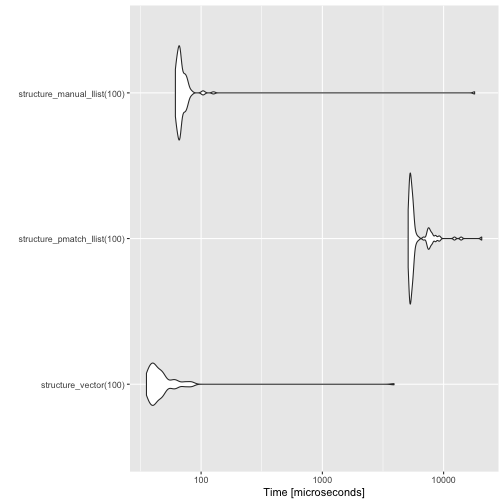
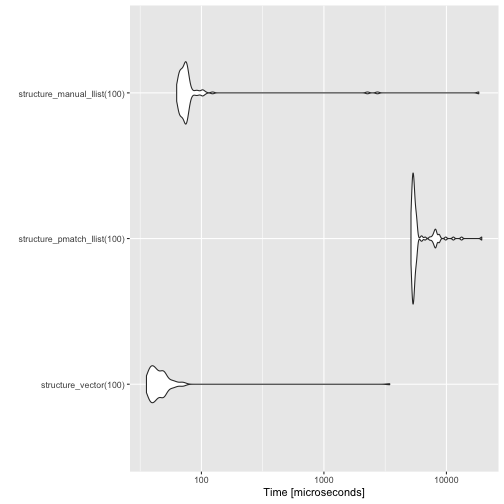
updating blog at Tue Oct 16 18:24:24 CEST 2018

diff --git a/docs/2018/10/16/the-cost-of-constructors/index.html b/docs/2018/10/16/the-cost-of-constructors/index.html
@@ -141,11 +141,11 @@ ga('send', 'pageview');
 
     
 
-<p>So, err, I wanted to compare the performance of linked lists versus R vectors on a case where the former is expected to perform better than the second: building a sequence one element at a time. If you work with vectors, whenever possible you want to allocated them to the size you are going to need. You cannot always do this, and if you find yourself having to add one element at a time by concatenation, you have a quadratic time performance on your hands.</p>
+<p>So, err, I wanted to compare the performance of linked lists versus R vectors on a case where the former is expected to perform better than the second: building a sequence one element at a time. If you work with vectors, whenever possible you want to allocate them to the size you are going to need. You cannot always do this, and if you find yourself having to add one element at a time by concatenation, you have a quadratic time performance on your hands.</p>
 
-<p>In some cases there are ways around this by being clever about allocation and reallocation, and that will give you a linear time algorithm. Using a linked list is simpler. You can add elements to the front of a list in constant time, so building a sequence using linked lists already takes linear time.</p>
+<p>In some cases, there are ways around this by being clever about allocation and reallocation, and that will give you a linear time algorithm. Using a linked list is more straightforward. You can add elements to the front of a list in constant time, so building a sequence using linked lists already takes linear time.</p>
 
-<p>Programming a linked list in R, though, will not give you the performance that vectors have, since operations on those are written in C. The performance gain you get from C implementations over R implementations will make vectors much faster for short sequences, but the better algorithm using linked list should soon outperform vectors.</p>
+<p>Programming a linked list in R, though, will not give you the performance that vectors have since operations on those are written in C. The performance gain you get from C implementations over R implementations will make vectors much faster for short sequences, but the better algorithm using linked list should soon outperform vectors.</p>
 
 <p>I wanted to get a feeling for where the two lines, the vector and the linked list performance, would cross.</p>
 
@@ -189,7 +189,7 @@ structure_manual_llist &lt;- <span style="color:#6ab825;font-weight:bold">functi
         i &lt;- i + <span style="color:#3677a9">1</span>
     }
 }</code></pre></div>
-<p>When I compare their performance, it looks absolutely horrible.</p>
+<p>When I compare their performance, it looks horrible.</p>
 <div class="highlight"><pre style="color:#d0d0d0;background-color:#202020;-moz-tab-size:4;-o-tab-size:4;tab-size:4"><code class="language-r" data-lang="r"><span style="color:#6ab825;font-weight:bold">library</span>(microbenchmark)
 measures &lt;- microbenchmark(
     structure_vector(<span style="color:#3677a9">100</span>),
@@ -198,20 +198,20 @@ measures &lt;- microbenchmark(
 )
 measures</code></pre></div>
 <pre><code>## Unit: microseconds
-##                         expr      min        lq       mean   median
-##        structure_vector(100)   35.425   39.1990   85.39673   42.496
-##  structure_pmatch_llist(100) 5100.786 5279.6000 6156.29756 5452.979
-##  structure_manual_llist(100)   61.368   64.6755  248.87403   66.778
-##         uq      max neval
-##    49.0075  3901.22   100
-##  5761.5150 20631.25   100
-##    72.4025 18024.37   100
+##                         expr      min        lq      mean    median
+##        structure_vector(100)   35.589   39.5215   79.4795   43.3035
+##  structure_pmatch_llist(100) 5138.207 5311.5115 6141.8516 5433.3730
+##  structure_manual_llist(100)   62.804   68.8670  306.2231   73.5315
+##         uq       max neval
+##    49.3005  3446.187   100
+##  5708.5820 19428.017   100
+##    77.6330 18371.577   100
 </code></pre>
 <div class="highlight"><pre style="color:#d0d0d0;background-color:#202020;-moz-tab-size:4;-o-tab-size:4;tab-size:4"><code class="language-r" data-lang="r"><span style="color:#6ab825;font-weight:bold">library</span>(ggplot2)
 autoplot(measures)</code></pre></div>
 <p><img src="figure/unnamed-chunk-3-1.png" alt="plot of chunk unnamed-chunk-3" /></p>
 
-<p>The <code>pmatch</code> implementation is orders of maginitude slower than the other two. The other linked list implementation is also slower than the vector implementation here, but that is because sequences of length 100 are too short for the linear time algorithm to outcompite the optimised implementation.</p>
+<p>The <code>pmatch</code> implementation is orders of magnitude slower than the other two. The other linked list implementation is also slower than the vector implementation here, but that is because sequences of length 100 are too short for the linear time algorithm to outcompete the optimised implementation.</p>
 
 <p>With the running time I get out of the <code>pmatch</code> implementation, I cannot move to much longer lists when benchmarking, so although I know that this implementation will eventually be faster than the vector solution, it would be for very large lists.</p>
 
@@ -252,9 +252,9 @@ app_llist2_times &lt;- tibble::tibble(
 
 <p>I take the mean of 100 time measures to reduce the variance in the timing results. As you can see, even for the averaged times, there is a large variability in the time measures.</p>
 
-<p>You can clearly see that the linear time solution quickly outperforms the quadratic time solution, but what happens with the <code>pmatch</code> solution.</p>
+<p>You can see that the linear time solution quickly outperforms the quadratic time solution, but what happens with the <code>pmatch</code> solution.</p>
 
-<p>There is some overhead in using <code>NIL</code> instead of <code>NULL</code>. I am not sure why. Of coures, <code>NULL</code> is one of the simplest objects in R and <code>NIL</code> holds some attributes, but if they are just moved around and not copied, I was expecting little if any additional cost to using <code>NIL</code>.</p>
+<p>There is some overhead in using <code>NIL</code> instead of <code>NULL</code>. I am not sure why. Of course, <code>NULL</code> is one of the simplest objects in R and <code>NIL</code> holds some attributes, but if they are just moved around and not copied, I was expecting little if any additional cost to using <code>NIL</code>.</p>
 <div class="highlight"><pre style="color:#d0d0d0;background-color:#202020;-moz-tab-size:4;-o-tab-size:4;tab-size:4"><code class="language-r" data-lang="r">autoplot(microbenchmark(NIL, <span style="color:#6ab825;font-weight:bold">NULL</span>))</code></pre></div>
 <p><img src="figure/unnamed-chunk-4-1.png" alt="plot of chunk unnamed-chunk-4" /></p>
 
@@ -263,14 +263,14 @@ app_llist2_times &lt;- tibble::tibble(
 autoplot(microbenchmark(NIL, <span style="color:#6ab825;font-weight:bold">NULL</span>, x))</code></pre></div>
 <p><img src="figure/unnamed-chunk-5-1.png" alt="plot of chunk unnamed-chunk-5" /></p>
 
-<p>I do need a variable. Otherwise I cannot recognize when a constant is part of a pattern and I cannot distinguish between two zero-arguments constructors.</p>
+<p>I do need a variable. Otherwise, I cannot recognise when a constant is part of a pattern, and I cannot distinguish between two zero-arguments constructors.</p>
 
 <p>In any case, where the running time is spent is in the constructor.</p>
 <div class="highlight"><pre style="color:#d0d0d0;background-color:#202020;-moz-tab-size:4;-o-tab-size:4;tab-size:4"><code class="language-r" data-lang="r">microbenchmark(CONS(<span style="color:#3677a9">1</span>, NIL), cons(<span style="color:#3677a9">1</span>, <span style="color:#6ab825;font-weight:bold">NULL</span>))</code></pre></div>
 <pre><code>## Unit: nanoseconds
-##           expr   min    lq     mean  median      uq    max neval
-##   CONS(1, NIL) 47054 47664 49132.91 48007.0 48586.0 116890   100
-##  cons(1, NULL)   421   453   596.12   628.5   705.5   1279   100
+##           expr   min      lq     mean median      uq    max neval
+##   CONS(1, NIL) 47090 47492.0 49183.05  47766 48176.5 134922   100
+##  cons(1, NULL)   438   466.5   590.12    619   677.5   1466   100
 </code></pre>
 
 <p>The <code>CONS</code> constructor is orders of magnitude slower than <code>cons</code>. That is where the runtime penalty is coming from.</p>
@@ -291,8 +291,8 @@ autoplot(microbenchmark(NIL, <span style="color:#6ab825;font-weight:bold">NULL</
 ##     }
 ##     structure(args, constructor = constructor_name, class = data_type_name)
 ## }
-## &lt;bytecode: 0x7fbf57becc40&gt;
-## &lt;environment: 0x7fbf5a6939f8&gt;
+## &lt;bytecode: 0x7ff91c18c240&gt;
+## &lt;environment: 0x7ff91aba4ff8&gt;
 ## attr(,&quot;class&quot;)
 ## [1] &quot;constructor&quot; &quot;function&quot;
 </code></pre>
@@ -301,7 +301,7 @@ autoplot(microbenchmark(NIL, <span style="color:#6ab825;font-weight:bold">NULL</
 
 <h2 id="building-a-new-constructor">Building a new constructor</h2>
 
-<p>Now I&rsquo;m thinking I should be able to just take a constructor and build a function exactly for that. I will attempt to do that below.  There are some utility functions in <code>pmatch</code> that I won&rsquo;t repeat here, but <code>process_arguments</code> takes the arguments from the constructor. For a constructor such as <code>CONS(car, cdr : llist)</code> those would be <code>car</code> and <code>cdr</code>. The <code>cdr</code> argument has a type specification, and <code>process_arguments</code> will give me that as well. With this <code>CONS</code> contructor, I will get this tibble:</p>
+<p>Now I think I should be able to take a constructor and build a function exactly for that. I will attempt to do that below.  There are some utility functions in <code>pmatch</code> that I won&rsquo;t repeat here, but <code>process_arguments</code> takes the arguments from the constructor. For a constructor such as <code>CONS(car, cdr : llist)</code> those would be <code>car</code> and <code>cdr</code>. The <code>cdr</code> argument has a type specification, and <code>process_arguments</code> will give me that as well. With this <code>CONS</code> contructor, I will get this tibble:</p>
 <div class="highlight"><pre style="color:#d0d0d0;background-color:#202020;-moz-tab-size:4;-o-tab-size:4;tab-size:4"><code class="language-r" data-lang="r"><span style="color:#999;font-style:italic"># A tibble: 2 x 2</span>
   arg   type  
   &lt;chr&gt; &lt;chr&gt; 
@@ -317,13 +317,13 @@ autoplot(microbenchmark(NIL, <span style="color:#6ab825;font-weight:bold">NULL</
 constructor_exp &lt;- rlang::expr(CONS2(car, cdr : llist))</code></pre></div><div class="highlight"><pre style="color:#d0d0d0;background-color:#202020;-moz-tab-size:4;-o-tab-size:4;tab-size:4"><code class="language-r" data-lang="r">make_constructor_function(constructor_exp, type_exp, <span style="color:#6ab825">environment</span>())</code></pre></div>
 <p>You do not need to assign the result of the function call to anything. The constructor is added to the environment provided, as does a function for printing the data type.</p>
 
-<p>In the new function I create a constructor, but now I use meta programming to put the value creation inside the function instead of analysing the structure at runtime. I also replaced a call to <code>structure</code> with code for explicitly setting the class and the attribute I need for pattern matching. Because that turned out to be much faster.</p>
+<p>In the new function I create a constructor, but now I use metaprogramming to put the value creation inside the function instead of analysing the structure at runtime. I also replaced a call to <code>structure</code> with code for explicitly setting the class and the attribute I need for pattern matching. Because that turned out to be much faster.</p>
 
 <blockquote class="twitter-tweet"><p lang="en" dir="ltr">Ok, I was surprised that the time penalty for creating a class was so high in <a href="https://twitter.com/hashtag/Rstats?src=hash&amp;ref_src=twsrc%5Etfw">#Rstats</a> <br><br>Also surprised that using `structure` was so expensive. <a href="https://t.co/NOEuKq1QVr">pic.twitter.com/NOEuKq1QVr</a></p>&mdash; Thomas Mailund (@ThomasMailund) <a href="https://twitter.com/ThomasMailund/status/1052103930338050048?ref_src=twsrc%5Etfw">October 16, 2018</a></blockquote>
 <script async src="https://platform.twitter.com/widgets.js" charset="utf-8"></script>
 
 
-<p>There is still a lot of code in the function, but with this version it is run when the constructor is created and not when it is called.</p>
+<p>There is still a lot of code in the function, but with this version, it is run when the constructor is created and not when it is called.</p>
 <div class="highlight"><pre style="color:#d0d0d0;background-color:#202020;-moz-tab-size:4;-o-tab-size:4;tab-size:4"><code class="language-r" data-lang="r">make_constructor_function &lt;- <span style="color:#6ab825;font-weight:bold">function</span>(constructor, data_type_name, env) {
     constructor_name &lt;- rlang::quo_name(constructor[[<span style="color:#3677a9">1</span>]])
     constructor_arguments &lt;- process_arguments(constructor[<span style="color:#3677a9">-1</span>])
@@ -443,7 +443,7 @@ structure_pmatch_llist3 &lt;- <span style="color:#6ab825;font-weight:bold">funct
 autoplot(measures)</code></pre></div>
 <p><img src="figure/unnamed-chunk-13-1.png" alt="plot of chunk unnamed-chunk-13" /></p>
 
-<p>Manually creating the list structure is still faster, but not frightningly so.</p>
+<p>Manually creating the list structure is still faster, but not frighteningly so.</p>
 <div class="highlight"><pre style="color:#d0d0d0;background-color:#202020;-moz-tab-size:4;-o-tab-size:4;tab-size:4"><code class="language-r" data-lang="r">measures &lt;- microbenchmark(
     structure_pmatch_llist3(<span style="color:#3677a9">100</span>),
     structure_pmatch_llist2(<span style="color:#3677a9">100</span>),
@@ -460,7 +460,7 @@ autoplot(measures)</code></pre></div>
 <hr />
 
 <ol>
-<li id="fn:I-really-should">I really should have thought about it, since obviously it is for algorithmic programming it is most useful to have such a syntax. <a class="footnote-return" href="#fnref:I-really-should"><sup>[return]</sup></a></li>
+<li id="fn:I-really-should">I really should have thought about it, since obviously, it is for algorithmic programming it is most useful to have such a syntax. <a class="footnote-return" href="#fnref:I-really-should"><sup>[return]</sup></a></li>
 </ol>
 </div>
 

diff --git a/content/post/the-cost-of-constructors/index.md b/content/post/the-cost-of-constructors/index.md
@@ -8,11 +8,11 @@ categories:
   - Functional-programming
 ---
 
-So, err, I wanted to compare the performance of linked lists versus R vectors on a case where the former is expected to perform better than the second: building a sequence one element at a time. If you work with vectors, whenever possible you want to allocated them to the size you are going to need. You cannot always do this, and if you find yourself having to add one element at a time by concatenation, you have a quadratic time performance on your hands.
+So, err, I wanted to compare the performance of linked lists versus R vectors on a case where the former is expected to perform better than the second: building a sequence one element at a time. If you work with vectors, whenever possible you want to allocate them to the size you are going to need. You cannot always do this, and if you find yourself having to add one element at a time by concatenation, you have a quadratic time performance on your hands.
 
-In some cases there are ways around this by being clever about allocation and reallocation, and that will give you a linear time algorithm. Using a linked list is simpler. You can add elements to the front of a list in constant time, so building a sequence using linked lists already takes linear time.
+In some cases, there are ways around this by being clever about allocation and reallocation, and that will give you a linear time algorithm. Using a linked list is more straightforward. You can add elements to the front of a list in constant time, so building a sequence using linked lists already takes linear time.
 
-Programming a linked list in R, though, will not give you the performance that vectors have, since operations on those are written in C. The performance gain you get from C implementations over R implementations will make vectors much faster for short sequences, but the better algorithm using linked list should soon outperform vectors.
+Programming a linked list in R, though, will not give you the performance that vectors have since operations on those are written in C. The performance gain you get from C implementations over R implementations will make vectors much faster for short sequences, but the better algorithm using linked list should soon outperform vectors.
 
 I wanted to get a feeling for where the two lines, the vector and the linked list performance, would cross.
 
@@ -61,7 +61,7 @@ structure_manual_llist <- function(n) {
 }
 ```
 
-When I compare their performance, it looks absolutely horrible.
+When I compare their performance, it looks horrible.
 
 
 ```r
@@ -76,14 +76,14 @@ measures
 
 ```
 ## Unit: microseconds
-##                         expr      min        lq       mean   median
-##        structure_vector(100)   35.425   39.1990   85.39673   42.496
-##  structure_pmatch_llist(100) 5100.786 5279.6000 6156.29756 5452.979
-##  structure_manual_llist(100)   61.368   64.6755  248.87403   66.778
-##         uq      max neval
-##    49.0075  3901.22   100
-##  5761.5150 20631.25   100
-##    72.4025 18024.37   100
+##                         expr      min        lq      mean    median
+##        structure_vector(100)   35.589   39.5215   79.4795   43.3035
+##  structure_pmatch_llist(100) 5138.207 5311.5115 6141.8516 5433.3730
+##  structure_manual_llist(100)   62.804   68.8670  306.2231   73.5315
+##         uq       max neval
+##    49.3005  3446.187   100
+##  5708.5820 19428.017   100
+##    77.6330 18371.577   100
 ```
 
 
@@ -94,7 +94,7 @@ autoplot(measures)
 
 ![plot of chunk unnamed-chunk-3](figure/unnamed-chunk-3-1.png)
 
-The `pmatch` implementation is orders of maginitude slower than the other two. The other linked list implementation is also slower than the vector implementation here, but that is because sequences of length 100 are too short for the linear time algorithm to outcompite the optimised implementation.
+The `pmatch` implementation is orders of magnitude slower than the other two. The other linked list implementation is also slower than the vector implementation here, but that is because sequences of length 100 are too short for the linear time algorithm to outcompete the optimised implementation.
 
 With the running time I get out of the `pmatch` implementation, I cannot move to much longer lists when benchmarking, so although I know that this implementation will eventually be faster than the vector solution, it would be for very large lists.
 
@@ -140,9 +140,9 @@ rbind(app_vector_times, app_llist2_times) %>%
 
 I take the mean of 100 time measures to reduce the variance in the timing results. As you can see, even for the averaged times, there is a large variability in the time measures.
 
-You can clearly see that the linear time solution quickly outperforms the quadratic time solution, but what happens with the `pmatch` solution.
+You can see that the linear time solution quickly outperforms the quadratic time solution, but what happens with the `pmatch` solution.
 
-There is some overhead in using `NIL` instead of `NULL`. I am not sure why. Of coures, `NULL` is one of the simplest objects in R and `NIL` holds some attributes, but if they are just moved around and not copied, I was expecting little if any additional cost to using `NIL`.
+There is some overhead in using `NIL` instead of `NULL`. I am not sure why. Of course, `NULL` is one of the simplest objects in R and `NIL` holds some attributes, but if they are just moved around and not copied, I was expecting little if any additional cost to using `NIL`.
 
 
 ```r
@@ -161,7 +161,7 @@ autoplot(microbenchmark(NIL, NULL, x))
 
 ![plot of chunk unnamed-chunk-5](figure/unnamed-chunk-5-1.png)
 
-I do need a variable. Otherwise I cannot recognize when a constant is part of a pattern and I cannot distinguish between two zero-arguments constructors.
+I do need a variable. Otherwise, I cannot recognise when a constant is part of a pattern, and I cannot distinguish between two zero-arguments constructors.
 
 In any case, where the running time is spent is in the constructor.
 
@@ -172,9 +172,9 @@ microbenchmark(CONS(1, NIL), cons(1, NULL))
 
 ```
 ## Unit: nanoseconds
-##           expr   min    lq     mean  median      uq    max neval
-##   CONS(1, NIL) 47054 47664 49132.91 48007.0 48586.0 116890   100
-##  cons(1, NULL)   421   453   596.12   628.5   705.5   1279   100
+##           expr   min      lq     mean median      uq    max neval
+##   CONS(1, NIL) 47090 47492.0 49183.05  47766 48176.5 134922   100
+##  cons(1, NULL)   438   466.5   590.12    619   677.5   1466   100
 ```
 
 The `CONS` constructor is orders of magnitude slower than `cons`. That is where the runtime penalty is coming from.
@@ -201,17 +201,17 @@ CONS
 ##     }
 ##     structure(args, constructor = constructor_name, class = data_type_name)
 ## }
-## <bytecode: 0x7fbf57becc40>
-## <environment: 0x7fbf5a6939f8>
+## <bytecode: 0x7ff91c18c240>
+## <environment: 0x7ff91aba4ff8>
 ## attr(,"class")
 ## [1] "constructor" "function"
 ```
 
-I wasn't thinking enough about performance when I wrote `pmatch`,^[I really should have thought about it, since obviously it is for algorithmic programming it is most useful to have such a syntax.] so I just constructed a generic function that would work with all constructors instead of creating a function for a specific constructor.
+I wasn't thinking enough about performance when I wrote `pmatch`,^[I really should have thought about it, since obviously, it is for algorithmic programming it is most useful to have such a syntax.] so I just constructed a generic function that would work with all constructors instead of creating a function for a specific constructor.
 
 ## Building a new constructor
 
-Now I'm thinking I should be able to just take a constructor and build a function exactly for that. I will attempt to do that below.  There are some utility functions in `pmatch` that I won't repeat here, but `process_arguments` takes the arguments from the constructor. For a constructor such as `CONS(car, cdr : llist)` those would be `car` and `cdr`. The `cdr` argument has a type specification, and `process_arguments` will give me that as well. With this `CONS` contructor, I will get this tibble:
+Now I think I should be able to take a constructor and build a function exactly for that. I will attempt to do that below.  There are some utility functions in `pmatch` that I won't repeat here, but `process_arguments` takes the arguments from the constructor. For a constructor such as `CONS(car, cdr : llist)` those would be `car` and `cdr`. The `cdr` argument has a type specification, and `process_arguments` will give me that as well. With this `CONS` contructor, I will get this tibble:
 
 ```r
 # A tibble: 2 x 2
@@ -242,11 +242,11 @@ make_constructor_function(constructor_exp, type_exp, environment())
 
 You do not need to assign the result of the function call to anything. The constructor is added to the environment provided, as does a function for printing the data type.
 
-In the new function I create a constructor, but now I use meta programming to put the value creation inside the function instead of analysing the structure at runtime. I also replaced a call to `structure` with code for explicitly setting the class and the attribute I need for pattern matching. Because that turned out to be much faster.
+In the new function I create a constructor, but now I use metaprogramming to put the value creation inside the function instead of analysing the structure at runtime. I also replaced a call to `structure` with code for explicitly setting the class and the attribute I need for pattern matching. Because that turned out to be much faster.
 
 {{< tweet 1052103930338050048 >}}
 
-There is still a lot of code in the function, but with this version it is run when the constructor is created and not when it is called.
+There is still a lot of code in the function, but with this version, it is run when the constructor is created and not when it is called.
 
 
 ```r
@@ -392,7 +392,7 @@ autoplot(measures)
 
 ![plot of chunk unnamed-chunk-13](figure/unnamed-chunk-13-1.png)
 
-Manually creating the list structure is still faster, but not frightningly so. 
+Manually creating the list structure is still faster, but not frighteningly so. 
 
 
 ```r
